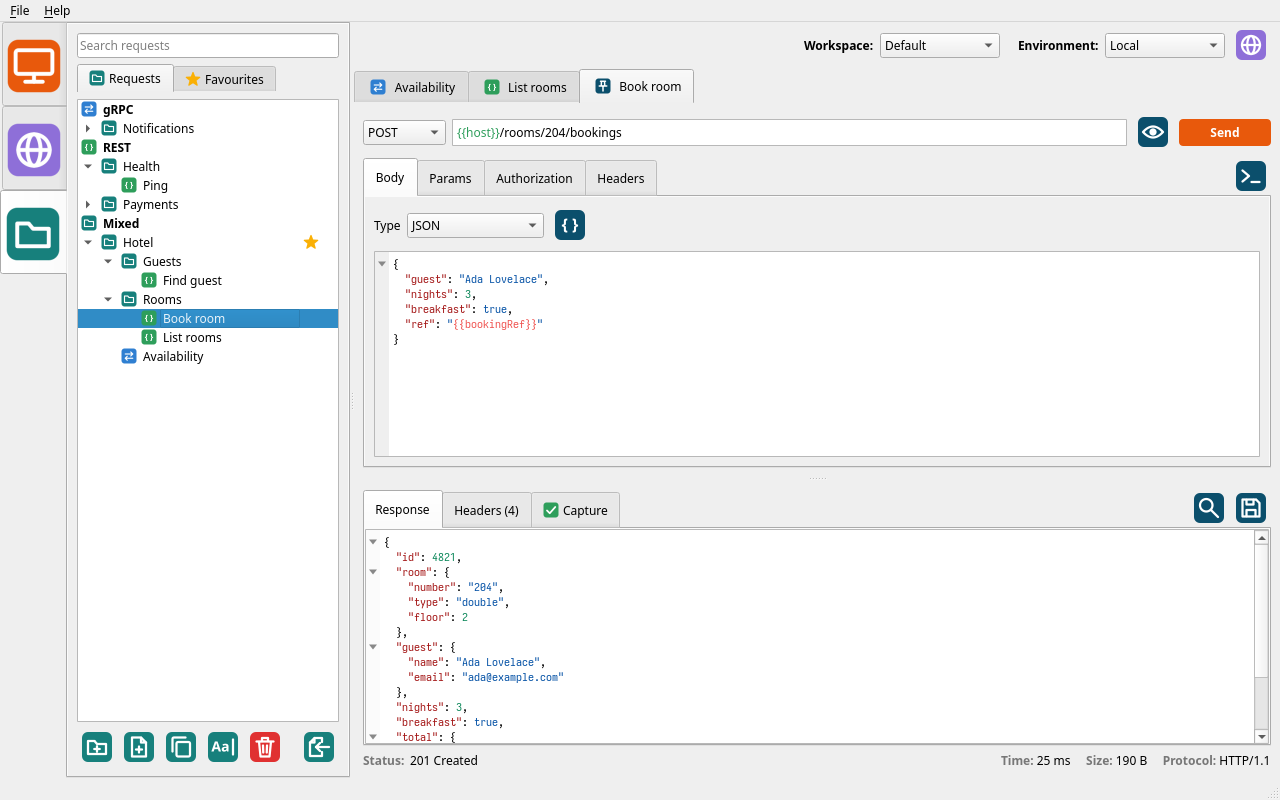
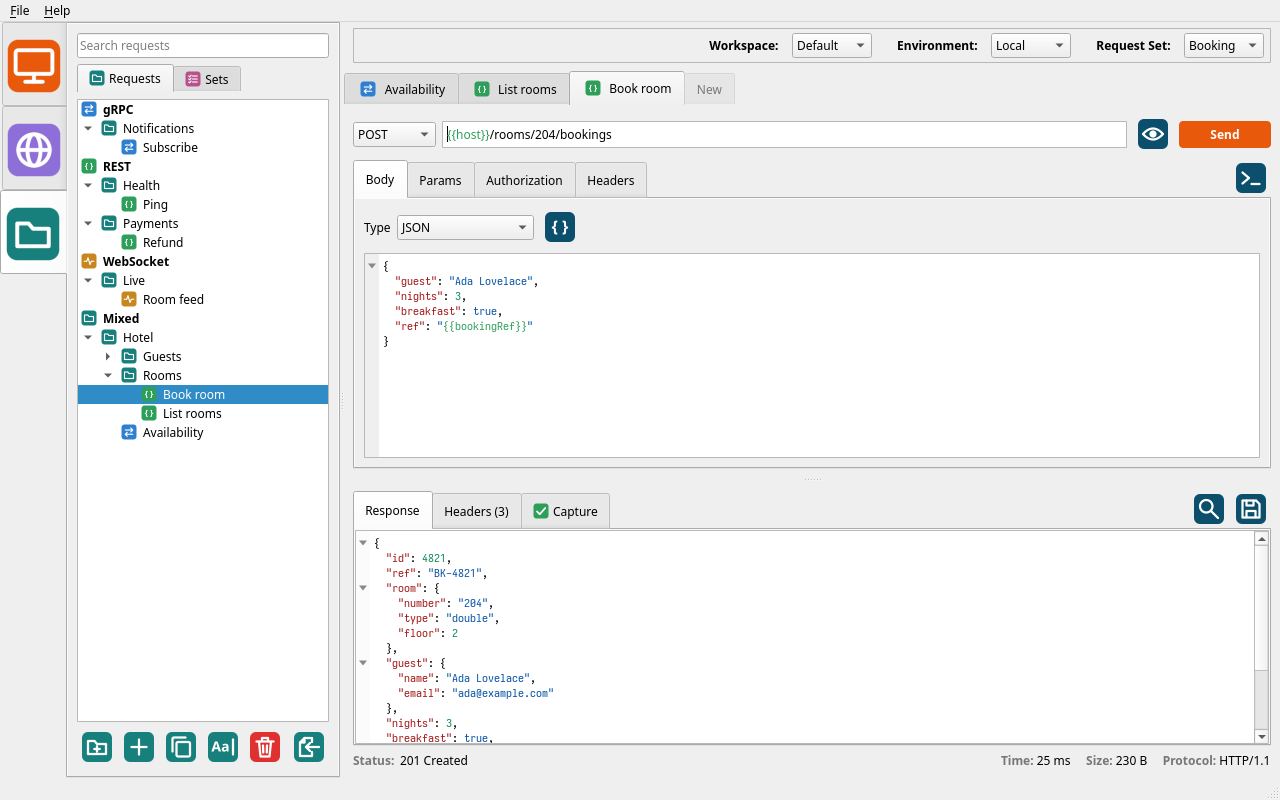
Updated readme.

diff --git a/internal/ui/screenshot_test.go b/internal/ui/screenshot_test.go
@@ -1,0 +1,122 @@
+package ui
+
+import (
+	"io"
+	"net/http"
+	"net/http/httptest"
+	"os"
+	"path/filepath"
+	"testing"
+	"time"
+
+	"github.com/mappu/miqt/qt6/mainthread"
+
+	"github.com/nomad-software/triggerapi/internal/capture"
+	"github.com/nomad-software/triggerapi/internal/collection"
+	"github.com/nomad-software/triggerapi/internal/env"
+	"github.com/nomad-software/triggerapi/internal/rest"
+	"github.com/nomad-software/triggerapi/internal/rpc"
+	"github.com/nomad-software/triggerapi/internal/settings"
+	"github.com/nomad-software/triggerapi/internal/ws"
+)
+
+// screenshotEnv names the file TestScreenshot draws the window into. The
+// test is skipped without it; make screenshot sets it to docs/screenshot.png.
+const screenshotEnv = "TRIGGERAPI_SCREENSHOT"
+
+// bookingBody is the body of the request the screenshot shows.
+const bookingBody = `{
+  "guest": "Ada Lovelace",
+  "nights": 3,
+  "breakfast": true,
+  "ref": "{{bookingRef}}"
+}`
+
+// bookingResponse is what the server of the screenshot answers it with.
+const bookingResponse = `{"id": 4821, "ref": "BK-4821", "room": {"number": "204", "type": "double", "floor": 2},` +
+	` "guest": {"name": "Ada Lovelace", "email": "ada@example.com"}, "nights": 3, "breakfast": true,` +
+	` "total": {"amount": 447.00, "currency": "GBP"}}`
+
+// TestScreenshot draws the window, with sample requests and a response to
+// one of them, into the PNG file screenshotEnv names, for the README.
+func TestScreenshot(t *testing.T) {
+	path := os.Getenv(screenshotEnv)
+	if path == "" {
+		t.Skip(screenshotEnv + " is not set")
+	}
+	path, err := filepath.Abs(path)
+	if err != nil {
+		t.Fatal(err)
+	}
+
+	srv := httptest.NewServer(http.HandlerFunc(func(w http.ResponseWriter, r *http.Request) {
+		io.Copy(io.Discard, r.Body)
+		// A response takes a moment, as it would from a real server.
+		time.Sleep(25 * time.Millisecond)
+		w.Header().Set("Content-Type", "application/json")
+		w.WriteHeader(http.StatusCreated)
+		io.WriteString(w, bookingResponse)
+	}))
+	defer srv.Close()
+
+	files := testFiles(t)
+	config := settings.Load(files.Settings)
+	config.Width, config.Height, config.SidebarWidth = 1280, 800, 340
+	if err := config.Save(files.Settings); err != nil {
+		t.Fatal(err)
+	}
+
+	envs := &env.Store{Active: 0, Environments: []env.Environment{
+		{Name: "Local", Variables: []env.Variable{{Key: "host", Value: srv.URL, Enabled: true}}},
+		{Name: "Staging", Variables: []env.Variable{{Key: "host", Value: "https://staging.example.com", Enabled: true}}},
+	}}
+	if err := envs.SaveWith(files.Environments, testKeys); err != nil {
+		t.Fatal(err)
+	}
+
+	store := &collection.Store{}
+	notifications := store.AddFolder("Notifications")
+	notifications.Add(collection.NewGRPC("Subscribe", rpc.Request{URL: "{{grpcHost}}", Method: "notify.v1.Notifications/Subscribe"}))
+	health := store.AddFolder("Health")
+	health.Add(collection.NewREST("Ping", rest.Request{Method: http.MethodGet, URL: "{{host}}/ping"}))
+	store.AddFolder("Payments").Add(collection.NewREST("Refund", rest.Request{Method: http.MethodPost, URL: "{{host}}/refunds"}))
+	store.AddFolder("Live").Add(collection.NewWebSocket("Room feed", ws.Request{URL: "{{host}}/feed"}))
+	hotel := store.AddFolder("Hotel")
+	guests := hotel.AddFolder("Guests")
+	guests.Add(collection.NewREST("Find guest", rest.Request{Method: http.MethodGet, URL: "{{host}}/guests"}))
+	rooms := hotel.AddFolder("Rooms")
+	book := rooms.Add(collection.NewREST("Book room", rest.Request{
+		Method:   http.MethodPost,
+		URL:      "{{host}}/rooms/204/bookings",
+		BodyType: rest.BodyJSON,
+		Body:     bookingBody,
+		Captures: []capture.Rule{{Variable: "bookingRef", Path: "ref", Enabled: true}},
+	}))
+	list := rooms.Add(collection.NewREST("List rooms", rest.Request{Method: http.MethodGet, URL: "{{host}}/rooms"}))
+	availability := hotel.Add(collection.NewGRPC("Availability", rpc.Request{URL: "{{grpcHost}}", Method: "hotel.v1.Rooms/Availability"}))
+	store.AddSet("Booking", []*collection.Request{availability, list, book})
+	if err := store.SaveWith(files.Requests, testKeys); err != nil {
+		t.Fatal(err)
+	}
+
+	var w *Window
+	mainthread.Wait(func() {
+		w = NewWindow(files.Files)
+		w.Show()
+		w.requests.sets.chooseAt(0)
+		for _, f := range w.requests.store.Folders {
+			f.Open = true
+		}
+		w.openRequest(w.requests.store.Find([]string{"Hotel", "Rooms", "Book room"}))
+		w.send()
+	})
+	waitFor(t, "the response", func() bool { return fieldValue(w.response, fieldCode) == "201 Created" })
+
+	saved := mainthread.Wait2(func() bool {
+		w.requests.draw(w.open)
+		return w.Grab().Save(path)
+	})
+	if !saved {
+		t.Fatalf("the screenshot could not be saved to %s", path)
+	}
+}

diff --git a/internal/postman/postman_test.go b/internal/postman/postman_test.go
@@ -232,3 +232,32 @@ func TestImportErrors(t *testing.T) {
 		}
 	}
 }
+
+// TestImportUnsupportedMethods checks that requests with a method TriggerAPI
+// does not offer are left out, and that a collection with nothing else has
+// nothing to import.
+func TestImportUnsupportedMethods(t *testing.T) {
+	const schema = `"info": {"name": "Cache", "schema": "https://schema.getpostman.com/json/collection/v2.1.0/collection.json"}`
+	root, err := Import([]byte(`{` + schema + `, "item": [
+		{"name": "Purge", "request": {"method": "PURGE", "url": "a.test"}},
+		{"name": "Folder", "item": [
+			{"name": "Find", "request": {"method": "propfind", "url": "a.test"}},
+			{"name": "Read", "request": {"method": "get", "url": "a.test"}}
+		]},
+		{"name": "Default", "request": {"url": "a.test"}}
+	]}`))
+	if err != nil {
+		t.Fatal(err)
+	}
+	if len(root.Requests) != 1 || root.Requests[0].Name != "Default" || root.Requests[0].Method != "GET" {
+		t.Errorf("top level requests = %+v", root.Requests)
+	}
+	if inner := root.Folders[0].Requests; len(inner) != 1 || inner[0].Name != "Read" || inner[0].Method != "GET" {
+		t.Errorf("folder requests = %+v", inner)
+	}
+
+	_, err = Import([]byte(`{` + schema + `, "item": [{"name": "Purge", "request": {"method": "PURGE", "url": "a.test"}}]}`))
+	if err == nil {
+		t.Error("a collection of only unsupported methods was imported")
+	}
+}

diff --git a/internal/postman/postman.go b/internal/postman/postman.go
@@ -9,6 +9,7 @@ import (
 	"fmt"
 	"net/http"
 	"regexp"
+	"slices"
 	"strings"
 
 	"github.com/nomad-software/triggerapi/internal/collection"
@@ -155,7 +156,7 @@ func (a *auth) UnmarshalJSON(data []byte) error {
 // and authorization, which is that of the nearest folder above it if it has
 // none of its own. Postman's {{variables}} are kept as they are, to be
 // defined in an environment. Scripts, saved responses and descriptions are
-// left out.
+// left out, as are requests with a method that is not one of rest.Methods.
 func Import(data []byte) (*collection.Folder, error) {
 	doc := &exported{}
 	if err := json.Unmarshal(data, doc); err != nil {
@@ -192,6 +193,11 @@ func fill(folder *collection.Folder, items []item, inherited *auth) int {
 		switch {
 		case it.Request != nil:
 			request := convert(it.Request, authorization)
+			// A request with a method that is not offered cannot be
+			// shown or sent as it is, so it is left out.
+			if !slices.Contains(rest.Methods, request.Method) {
+				continue
+			}
 
 			name := strings.TrimSpace(it.Name)
 			if name == "" {

diff --git a/CLAUDE.md b/CLAUDE.md
@@ -12,6 +12,18 @@ REST, gRPC and WebSocket requests, environments and saved requests in folders ar
 
 Every change must stay backward compatible with existing request files (`requests.json`). A file written by any earlier version must load with nothing lost, and nothing the format or the UI already allows may be taken away unless the user asks for it. Add new data as optional fields (`omitempty`), or in a section or file of its own, so that a file without it reads and writes as before. Normalise old shapes when loading rather than rejecting them, and give every change to the format a test that loads a file in the old format. Check the git history before deciding that something was never supported. The handling of old formats stays, cruft or not, until the user decides to settle on a cleaner format once the program is mature.
 
+## Technical debt
+
+Pay technical debt down as part of every feature and fix, rather than leaving it for later; do not let cruft build up. While working on something:
+
+- Before adding a case for a request type, a colour, an import kind or anything else that comes in kinds, look for the table or interface that already lists them (`requestTypes`, `Window.uis`, `colourKinds`, `tokenKinds`, `importSources`, ...) and extend it; if there is none and the same switch would appear a second time, make one.
+- When code being added is like code already there, share it instead of copying it (see `sidebar.go`, `requestui.go`), and remove what the change leaves unused.
+- Keep files to one concern; split one that grows a second rather than letting it sprawl (as `window.go` was split into `windowrun.go`, `windowsettings.go` and `windowworkspaces.go`).
+- Free what Qt constructors make once it is no longer needed (see Memory under miqt conventions), and keep `go vet` and `staticcheck` clean.
+- Keep this file, the README and `docs/screenshot.png` (`make screenshot`) in step with the code in the same change.
+- Anything made to help with the work that is worth running again, such as a generator or a script, goes in the repository with a make target or a note here, never only in a scratch folder.
+- Refactoring changes no behaviour. Add tests first where what is being refactored is not covered, and report a bug that is found rather than changing behaviour to fix it unasked.
+
 ## Architecture
 
 Packages under `internal/`; only `ui` depends on Qt.
@@ -23,7 +35,7 @@ Packages under `internal/`; only `ui` depends on Qt.
 - `ws` is the WebSocket engine, built on `github.com/coder/websocket`. A `ws.Request` is a URL (`Target` gives it a `ws`/`wss` scheme, assuming `ws://`, and takes `http`/`https` as the same), handshake headers, `rest.Auth` and a text message; `ws.Dial` opens a `ws.Conn` (the context limits only the handshake; a refused handshake's error names the HTTP status), which `Send`s text and `Receive`s messages until it closes, when `ws.Closed` gives the close code and reason (`Normal`, `CodeName`). Messages are `ws.Message`s, sent or received, with their time.
 - `collection` holds saved requests: a `Store` of `Folder`s, each with `Request`s. A `Request` has a name, a `Type` (`rest`, `grpc` or `websocket`) and exactly one of an embedded `*rest.Request` (stored flat beside the name, which is also the format from before there were types), `GRPC *rpc.Request` or `WebSocket *ws.Request` (`json:"websocket"`); `Load` normalises this. Check `Type` before touching either. A `Folder` holds requests and other folders, to any depth (`Folders` then `Requests`), and records whether it is shown open (`Open`), which the tree sets as folders are opened and closed and which is never saved (`json:"-"`), so every folder starts closed at startup; a `collapsed` or `favourite` mark in a file from before is ignored and not written again. Selecting a request in the tree (as choosing its tab does, through `requestTree.selectRequest`) opens the folders it is in, as Qt's `scrollTo` expands them and `setCollapsed` records it; the store has only folders at its top level, never requests. The store also has `Sets`, each a name and the `*Request`s it holds, from any folders, in order; `Store.MarshalJSON` / `UnmarshalJSON` write them in a `sets` section (left out when there are none) with each request as its `Store.Path`, `LoadWith` finds them again (leaving out those not found), so renaming or moving a request keeps it in its sets, and `Store.PruneSets` takes out those removed (`requestTree.remove` calls it). Folders and requests are held by pointer so they keep their identity when others are removed. `collection.New` makes the empty request of a type (a REST one is a GET), `Request.SetContent` gives a request what another holds while keeping its name, and `Store.FoldersIn`, `Insert` and `Delete` act on the folders inside a folder, or at the top level for nil, so that callers need not tell the two apart.
 - `openapi` turns an OpenAPI 3 or Swagger 2 document (JSON or YAML, read with `gopkg.in/yaml.v3`) into a `collection.Folder` of REST requests: one per operation, in subfolders by first tag. Unknown values become `{{placeholder}}`s. It is tolerant of missing references. An example body is made from a schema by an `exampleMaker`, which does not make a schema inside itself and stops at `maxValues`, as schemas that refer to one another would otherwise make an example of enormous size.
-- `postman` does the same for a Postman collection (formats 2.0 and 2.1), keeping its folders, and leaving out scripts, saved responses and descriptions.
+- `postman` does the same for a Postman collection (formats 2.0 and 2.1), keeping its folders, and leaving out scripts, saved responses and descriptions, and requests whose method is not one of `rest.Methods` (the REST UI offers only those). `openapi` likewise makes requests only for the operations of those methods. Import only what the program supports.
 - `postman.ImportEnvironment` reads an environment exported from Postman into an `env.Environment`. The import button of the Environments tab (`envList.importDocument`) works like the one for requests, with its kinds in `envImportSources` (Postman alone for now) and the same `chooseSource`, `chooseFile` and `warn` hooks for tests; the imported environment becomes the selected one.
 - What the sidebar lists share is in `sidebar.go`: an `importKind` describes a kind of file to import (the requests' `importSources` and the environments' `envImportSources`, each offered in the order of `importOrder` / `envImportOrder` by `newSourceDialog`), `importDocument` asks for the kind and the file, `saveStore` saves a store with the keys, and `copyName` adds " copy" to the name of something pasted until it is not taken.
 - The import button of the Requests tab (`requestTree.importDocument`) asks which of these to import with a `choiceDialog`, then for the file, and adds the folder to the top level with the folders inside it closed. The kinds are described in `importSources`. Tests replace `requestTree.chooseSource`, `chooseFile` and `warn` rather than let dialogs open.
@@ -81,6 +93,7 @@ make build                # go build -ldflags "-s -w" -o triggerapi . (binary is
 make run                  # build, then ./triggerapi
 make vet                  # go vet ./...
 make test                 # go test ./...
+make screenshot           # redraw docs/screenshot.png (TestScreenshot in internal/ui/screenshot_test.go)
 go test ./path/to/pkg -run TestName   # single test
 ```
 

diff --git a/README.md b/README.md
@@ -5,7 +5,7 @@ WebSocket servers. It is written
 in Go with a Qt 6 interface using the [miqt](https://github.com/mappu/miqt)
 bindings.
 
-![TriggerAPI showing saved requests under gRPC, REST and Mixed headings, a REST request with a JSON body, its JSON response and a value captured from it](docs/screenshot.png)
+![TriggerAPI showing saved requests under gRPC, REST, WebSocket and Mixed headings, the pinned tabs of a request set, a REST request with a JSON body, its JSON response and a value captured from it](docs/screenshot.png)
 
 ## Why TriggerAPI
 
@@ -42,8 +42,9 @@ bindings.
 
 **REST**
 
-- Send requests with any common HTTP method, query params, headers, basic or
-  bearer authorization, and a JSON, text, XML or form body.
+- Send GET, POST, PUT, PATCH, DELETE, HEAD and OPTIONS requests with query
+  params, headers, basic or bearer authorization, and a JSON, text, XML or
+  form body.
 - Params are shown in the URL and kept in step with it both ways. Params,
   headers and form fields can each be switched off without being removed.
 - A long URL is wrapped, with the field growing to show all of it.
@@ -159,7 +160,8 @@ bindings.
   itself and never put on the system clipboard, so the tokens and passwords
   in requests and environments do not leave it.
 - Import an OpenAPI 3 or Swagger 2 document, as JSON or YAML, or a Postman
-  collection, to create a folder of requests.
+  collection, to create a folder of requests. Only requests with one of the
+  methods above are imported; others, such as TRACE or PURGE, are left out.
 
 **Environments**
 
@@ -530,6 +532,13 @@ make test
 ```
 
 The interface tests run Qt offscreen, so they do not need a display.
+
+The screenshot at the top of this file is drawn by a test, from sample
+requests, and is made again with:
+
+```sh
+make screenshot
+```
 
 ## License
 
